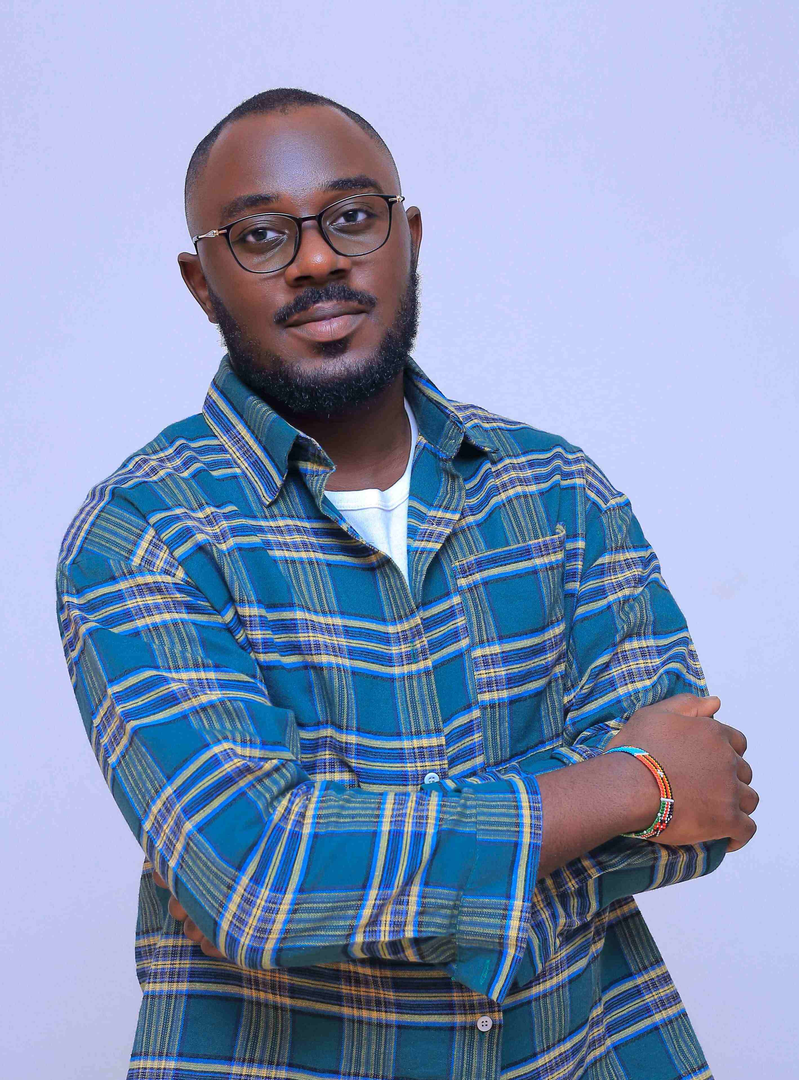
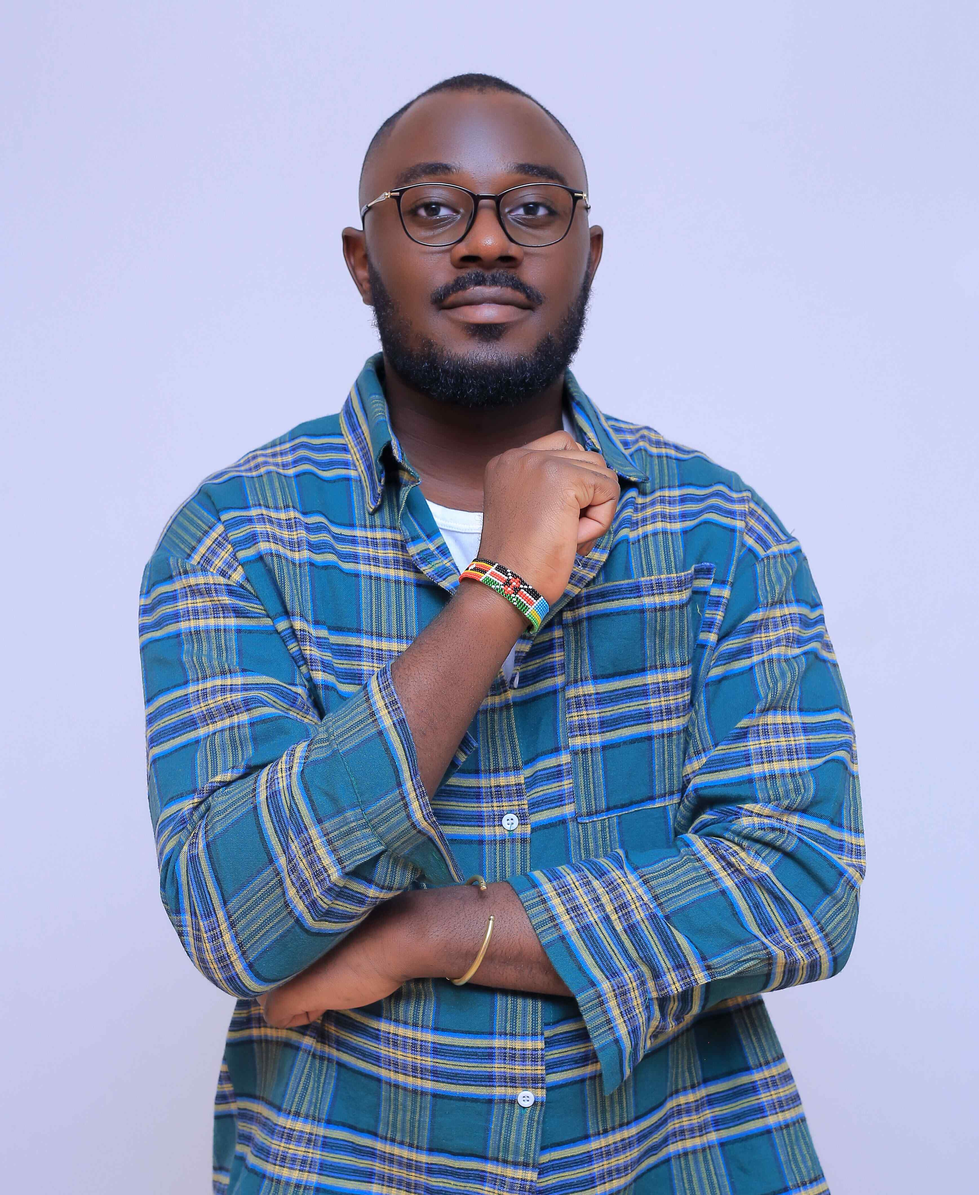
fix: replace Kaneza photo

diff --git a/index.html b/index.html
@@ -79,8 +79,8 @@
             <strong>Interested in my journey and skills?</strong>
           </h3>
           <p>
-            <a download="" href="#">Download my Resume/CV</a> to see more about
-            my experience and qualifications.
+            <a download href="#">Download my Resume/CV</a> to see more about my
+            experience and qualifications.
           </p>
         </article>
 
